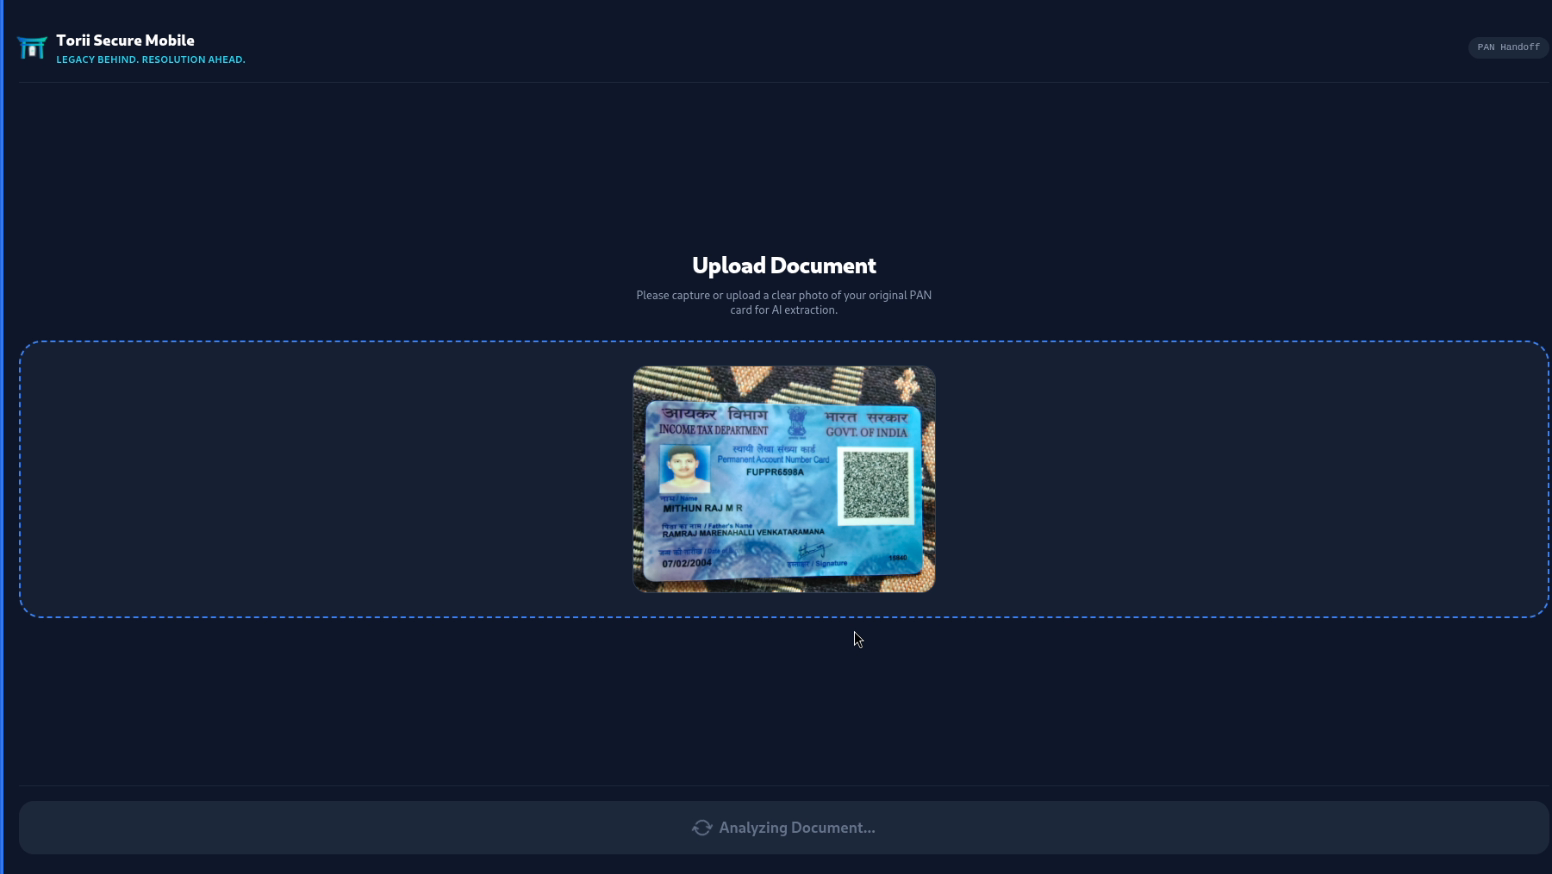
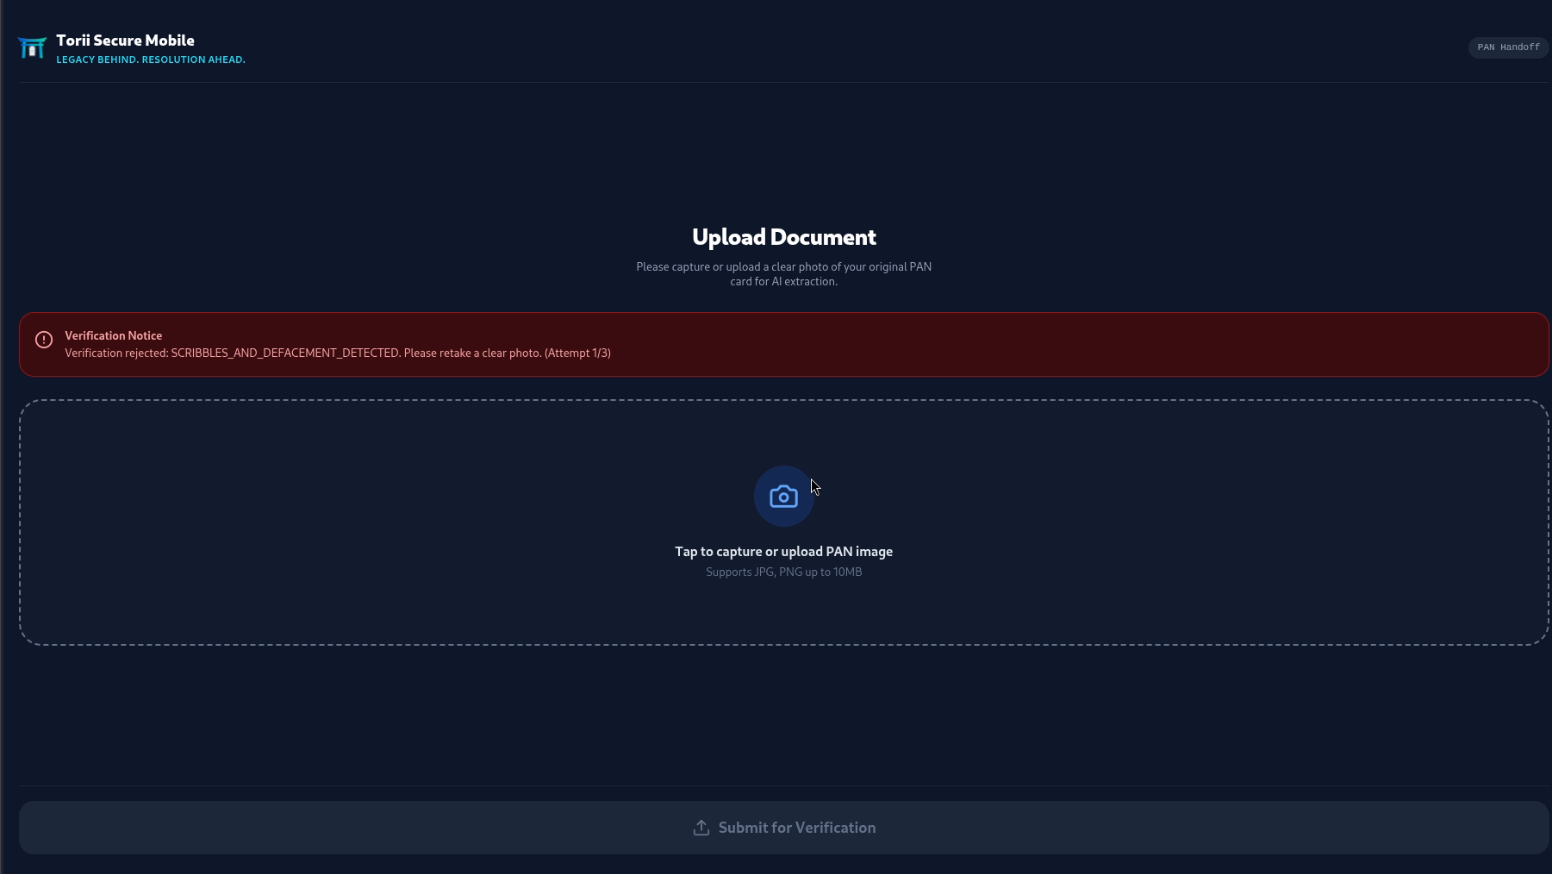
docs: showcase authentic error states, anti-fraud gates, teller exceptions, and transactional notifications

diff --git a/Readme.md b/Readme.md
@@ -60,44 +60,66 @@ TORII fundamentally alters how retail banking operations function:
 ## Platform Visual Tour
 
 <div align="center">
-  <p><strong>A comprehensive visual walkthrough of TORII's production banking triage, AI swarm orchestration, mobile handoff, and human-in-the-loop authorization pipeline:</strong></p>
+  <p><strong>A comprehensive visual walkthrough of TORII's production banking triage, AI swarm orchestration, anti-fraud quality gates, teller exception workflows, and omnichannel notifications:</strong></p>
 </div>
 
-### 1. Operations Hub & Swarm Telemetry
-| 🏛 Master Operations Hub & Section G Radar | 🤖 Active AI Swarm Telemetry & Copilot Drawer |
+### 1. Architecture Gateway & Master Operations Hub
+| ⛩ Torii Architecture v4.0 Portal | 🏛 Master Operations Command Center |
 | :---: | :---: |
-| <a href="screenshot-Torii/landing_page.png"><img src="screenshot-Torii/landing_page.png" alt="Torii Master Operations Hub" width="100%" /></a> | <a href="screenshot-Torii/landing_copilot_assistant.png"><img src="screenshot-Torii/landing_copilot_assistant.png" alt="AI Swarm Telemetry & Copilot Drawer" width="100%" /></a> |
-| **Unified Command Center**: Live CBS core telemetry, multi-workspace routing, and real-time Section G compliance radar tracking branch bottlenecks. | **Interactive AI Copilot**: Public visitor assistant with live AI agent swarm indicators (`AML Watchdog RUN`, `Vision OCR`, `Cross-sell AI`). |
+| <a href="screenshot-Torii/torii_portal_intro.png"><img src="screenshot-Torii/torii_portal_intro.png" alt="Torii Portal Architecture Entry" width="100%" /></a> | <a href="screenshot-Torii/landing_page.png"><img src="screenshot-Torii/landing_page.png" alt="Torii Master Operations Hub" width="100%" /></a> |
+| **Architectural Gateway**: Unified entry point cleanly routing branch customers, tellers, and administrative operators to dedicated workspaces. | **Central Command Hub**: Live CBS core telemetry, multi-workspace routing, and real-time Section G compliance radar tracking branch bottlenecks. |
 
-### 2. Autonomous Kiosk Terminal & Policy Triage
-| 🔐 Kiosk PIN-Pad 2FA Authentication | ⚡ Section G Proactive Triage Radar Alert |
+### 2. Live AI Swarm Telemetry & Regulatory Copilot
+| 🤖 Active AI Swarm Telemetry & Copilot Drawer | 💬 Dual-Track Policy FAQ Assistant |
 | :---: | :---: |
-| <a href="screenshot-Torii/login_page.png"><img src="screenshot-Torii/login_page.png" alt="Self-Service Kiosk Terminal" width="100%" /></a> | <a href="screenshot-Torii/kiosk_proactive_triage_radar.png"><img src="screenshot-Torii/kiosk_proactive_triage_radar.png" alt="Section G Radar Alert" width="100%" /></a> |
-| **Self-Service Kiosk Authentication**: Zero-friction 10-digit PIN pad entry triggering parallel login swarm execution (`Promise.all`). | **Proactive Bottleneck Interception**: Instant diagnosis of Section 139A PAN block with 1-click **Execute Agentic Fix Now** and personalized deposit recommendations. |
+| <a href="screenshot-Torii/landing_copilot_assistant.png"><img src="screenshot-Torii/landing_copilot_assistant.png" alt="AI Swarm Telemetry & Copilot Drawer" width="100%" /></a> | <a href="screenshot-Torii/FAQ_chat_1.png"><img src="screenshot-Torii/FAQ_chat_1.png" alt="Conversational Banking Policy FAQ" width="100%" /></a> |
+| **Interactive Regulatory Copilot**: Visitor assistant answering compliance questions (FDIC, PATRIOT Act, PCI-DSS, GDPR) with live agent status (`AML Watchdog RUN`). | **Autonomous Policy Engine**: Sub-second answers for branch procedures, NEFT/RTGS/IMPS schedules, KYC documentation requirements, and charges. |
 
-### 3. Natural Language Policy FAQ & Advisor Intelligence
-| 💬 Conversational FAQ & Policy Assistant | 🎁 Advisor Agent Pre-Approved Reservation |
+### 3. Autonomous Kiosk Terminal & Section G Triage Radar
+| 🔐 Kiosk Account Lookup & PII Masking | ⚡ Section G Proactive Triage Radar Alert |
 | :---: | :---: |
-| <a href="screenshot-Torii/kiosk_faq_voice_chat.png"><img src="screenshot-Torii/kiosk_faq_voice_chat.png" alt="Kiosk Conversational FAQ" width="100%" /></a> | <a href="screenshot-Torii/advisor_cross_sell_modal.png"><img src="screenshot-Torii/advisor_cross_sell_modal.png" alt="Advisor Agent Reservation" width="100%" /></a> |
-| **Dual-Track Policy Intelligence**: Sub-second natural language answers for RTGS, NEFT, IMPS fees, interest rates, and branch policies. | **Autonomous Value-Add**: Proactive balance tier analysis offering pre-approved fixed deposits with instant RM reservation confirmation. |
+| <a href="screenshot-Torii/kiosk_account_lookup.png"><img src="screenshot-Torii/kiosk_account_lookup.png" alt="Kiosk Account Lookup Keypad" width="100%" /></a> | <a href="screenshot-Torii/kiosk_proactive_triage_radar.png"><img src="screenshot-Torii/kiosk_proactive_triage_radar.png" alt="Section G Radar Alert" width="100%" /></a> |
+| **Zero-Friction Kiosk Auth**: 10-digit account keypad lookup with Watsonx.governance PII masking and automated SMS/Email OTP dispatch. | **Proactive Bottleneck Interception**: Instant CBS ledger diagnosis of Section 139A PAN block with 1-click **Execute Agentic Fix Now** action card. |
 
-### 4. Privacy-Preserving Mobile Continuation & Camera Capture
+### 4. Natural Language Kiosk FAQ & Cross-Sell Advisory
+| 🎙 Kiosk Conversational Voice & FAQ Triage | 🎁 Advisor Agent High-Yield Offer Modal |
+| :---: | :---: |
+| <a href="screenshot-Torii/kiosk_faq_voice_chat.png"><img src="screenshot-Torii/kiosk_faq_voice_chat.png" alt="Kiosk Voice & FAQ Assistant" width="100%" /></a> | <a href="screenshot-Torii/advisor_cross_sell_modal.png"><img src="screenshot-Torii/advisor_cross_sell_modal.png" alt="Advisor Agent Pre-Approved Reservation" width="100%" /></a> |
+| **Multimodal Kiosk Assistant**: Real-time voice and text banking inquiries with pre-configured quick action pills for instant lobby assistance. | **Autonomous Value-Add**: Proactive balance tier analysis offering pre-approved fixed deposits (4.50% p.a.) with 1-click Relationship Manager reservation. |
+
+### 5. Privacy-Preserving Mobile Continuation & Camera Capture
 | 📲 Encrypted QR Session Handoff | 📸 Torii Secure Mobile Camera Viewfinder |
 | :---: | :---: |
 | <a href="screenshot-Torii/QR_scan_Pan_page.png"><img src="screenshot-Torii/QR_scan_Pan_page.png" alt="Encrypted Mobile QR Handoff" width="100%" /></a> | <a href="screenshot-Torii/mobile_camera_pan_upload.png"><img src="screenshot-Torii/mobile_camera_pan_upload.png" alt="Mobile Camera Capture" width="100%" /></a> |
-| **Zero-Password Smartphone Handoff**: 10-minute ephemeral Redis cryptographic token delegating sensitive KYC capture to personal devices. | **Native Mobile Capture**: Secure browser-based camera capture with real-time AI extraction and streaming progress. |
+| **Zero-Password Smartphone Handoff**: 10-minute ephemeral Redis cryptographic token delegating sensitive KYC capture from kiosk to personal smartphone. | **Native Mobile Capture**: Secure browser-based camera capture viewfinder uploading specimen documents for real-time parallel AI extraction. |
 
-### 5. Multi-Agent Anti-Fraud Inspection & Live Dispatch
-| 🛡 Vision OCR Scribble / Tamper Rejection | ⏱ Real-Time Teller Dispatch Poller |
+### 6. Document Quality Gating & Anti-Fraud Tamper Detection
+| 🚫 Defaced Specimen Fraud Simulation | 🛡 Vision OCR Scribble / Tamper Rejection Gate |
 | :---: | :---: |
-| <a href="screenshot-Torii/mobile_anti_fraud_rejection.png"><img src="screenshot-Torii/mobile_anti_fraud_rejection.png" alt="Vision OCR Defacement Rejection" width="100%" /></a> | <a href="screenshot-Torii/mobile_status_tracker_dispatch.png"><img src="screenshot-Torii/mobile_status_tracker_dispatch.png" alt="Real-Time Status Tracker" width="100%" /></a> |
-| **Strict Anti-Fraud Quality Gate**: Automatic rejection of scribbles, obstructions, and defacement (`SCRIBBLES_AND_DEFACEMENT_DETECTED`) with instant customer retry guidance. | **Live Continuation Poller**: Real-time status tracker keeping the customer informed while pre-analyzed files route to the branch teller. |
+| <a href="screenshot-Torii/mobile_defaced_pan_sample.png"><img src="screenshot-Torii/mobile_defaced_pan_sample.png" alt="Defaced Specimen Document Upload" width="100%" /></a> | <a href="screenshot-Torii/mobile_anti_fraud_rejection.png"><img src="screenshot-Torii/mobile_anti_fraud_rejection.png" alt="Vision OCR Defacement Rejection Error" width="100%" /></a> |
+| **Tamper Simulation**: A customer attempts to upload a defaced or scribbled document to test automated compliance checks. | **Instant Quality Gate Rejection**: AI Vision model intercepts defacement (`SCRIBBLES_AND_DEFACEMENT_DETECTED`), halting processing and requesting a pristine retake. |
 
-### 6. Human-in-the-Loop (HITL) Authorization & Customer Notification
-| 👨💼 HITL Teller Review Workstation | ✉ Multi-Channel Email Notification Dispatch |
+| ⏱ Security Token Expiration Guardrail | 📡 Real-Time Teller Dispatch Tracker |
 | :---: | :---: |
-| <a href="screenshot-Torii/teller_hitl_verification.png"><img src="screenshot-Torii/teller_hitl_verification.png" alt="HITL Teller Workstation" width="100%" /></a> | <a href="screenshot-Torii/email_notifications_flow.png"><img src="screenshot-Torii/email_notifications_flow.png" alt="Email Notification Dispatch" width="100%" /></a> |
-| **5-Second Teller Verification**: Pre-extracted Gemini OCR metrics (Clarity 99%, Name Match 100%, Tampering PASSED, Specimen GENUINE) with 1-Click Approve. | **Instant Customer Delivery**: Automated Brevo/SMTP transactional email updates for 2FA OTPs, approval confirmations, and teller notices. |
+| <a href="screenshot-Torii/mobile_session_expired_error.png"><img src="screenshot-Torii/mobile_session_expired_error.png" alt="Session Expired Error Guardrail" width="100%" /></a> | <a href="screenshot-Torii/mobile_status_tracker_dispatch.png"><img src="screenshot-Torii/mobile_status_tracker_dispatch.png" alt="Real-Time Status Tracker" width="100%" /></a> |
+| **Cryptographic Expiration Notice**: Enforces bank security by rejecting expired or invalid QR tokens (`Your upload session has expired or is invalid`). | **Live Dispatch Poller**: Streams status updates to the customer's phone while pre-verified document metadata routes to the branch teller. |
+
+### 7. Human-in-the-Loop (HITL) Authorization & Exception Handling
+| 👨💼 HITL Teller Review Workstation | ⚠ Teller Manual Rejection & Exception Modal |
+| :---: | :---: |
+| <a href="screenshot-Torii/teller_hitl_verification.png"><img src="screenshot-Torii/teller_hitl_verification.png" alt="HITL Teller Workstation" width="100%" /></a> | <a href="screenshot-Torii/teller_rejection_reason_modal.png"><img src="screenshot-Torii/teller_rejection_reason_modal.png" alt="Teller Rejection Reason Dropdown Modal" width="100%" /></a> |
+| **5-Second Verification**: Pre-extracted Gemini Vision OCR metrics (98% Clarity, 100% Name Match, Tampering PASSED, Specimen GENUINE) for 1-click approval. | **Exception Handling Controls**: Tellers can manually reject invalid tickets, selecting specific reasons (`Blurry or Unreadable Image`, `Invalid Document`) with automated customer notification. |
+
+| 📋 Teller Audit History & Rejected State | 🔑 Teller Staff Workspace Authentication |
+| :---: | :---: |
+| <a href="screenshot-Torii/teller_ticket_rejected_audit.png"><img src="screenshot-Torii/teller_ticket_rejected_audit.png" alt="Teller Audit History Rejected Ticket" width="100%" /></a> | <a href="screenshot-Torii/login_page.png"><img src="screenshot-Torii/login_page.png" alt="Teller Staff Login Portal" width="100%" /></a> |
+| **Immutable Audit Queue**: Real-time audit log tracking approval and rejection decisions with distinct color-coded badges (`APPROVED` vs `REJECTED`). | **Role-Based Access Control**: Secure staff authentication portal restricting teller workstation actions to authorized branch personnel. |
+
+### 8. Omnichannel Customer Delivery & Transactional Alerts
+| ✉ Automated Rejection Notice (`NAME_MISMATCH`) | ✉ Automated Approval & Hold Release Confirmation |
+| :---: | :---: |
+| <a href="screenshot-Torii/email_rejection_notice.png"><img src="screenshot-Torii/email_rejection_notice.png" alt="Email Rejection Alert" width="100%" /></a> | <a href="screenshot-Torii/email_notifications_flow.png"><img src="screenshot-Torii/email_notifications_flow.png" alt="Email Approval Confirmation" width="100%" /></a> |
+| **Automated Exception Delivery**: Instant Brevo/SMTP transactional email explaining the specific failure reason (`NAME_MISMATCH`) and branch instructions. | **Instant Resolution Confirmation**: Immediate transactional email notifying the customer that their document was approved and the compliance hold is lifted. |
 
 ---
 
@@ -152,8 +174,8 @@ Arjun steps up to the branch kiosk terminal and enters his 10-digit account numb
 - **Leg 3 — Advisor Cross-Sell Agent**: Evaluates Arjun's account balance tier to generate personalized, high-value financial offer cards.
 
 <p align="center">
-  <a href="screenshot-Torii/login_page.png"><img src="screenshot-Torii/login_page.png" alt="Kiosk Terminal PIN-pad Authentication" width="85%" /></a>
-  <br><em>Figure 1: Kiosk Terminal Authentication — Arjun enters his 10-digit account number to initiate 2FA OTP verification and trigger the parallel login swarm.</em>
+  <a href="screenshot-Torii/kiosk_account_lookup.png"><img src="screenshot-Torii/kiosk_account_lookup.png" alt="Kiosk Account Lookup Keypad" width="85%" /></a>
+  <br><em>Figure 1: Kiosk Terminal Authentication — Arjun enters his 10-digit account number on the zero-friction keypad with Watsonx.governance PII masking to initiate automated compliance diagnosis.</em>
 </p>
 
 ### Step 2: Proactive Dialogue & Bottom Quick-Fix Drawer
@@ -174,36 +196,39 @@ Arjun clicks the quick-fix card. The kiosk calls `POST /api/auth/qr/generate`, i
   <br><em>Figure 3: Encrypted Mobile Continuation — Arjun scans the 10-minute ephemeral QR code with his smartphone to securely upload his PAN card.</em>
 </p>
 
-### Step 4: Intelligent Quality-Gated Document Upload
+### Step 4: Intelligent Quality-Gated Document Upload & Fraud Interception
 Arjun snaps a photo of his PAN card on his phone and submits it (`POST /api/mobile/upload`).
 Before any data reaches the teller, TORII's Vision OCR agent executes a strict anti-fraud inspection:
-- **Quality Gating**: If image clarity is `< 0.80`, or if finger obstructions, scribbles, or digital screen capture Moiré patterns are detected, the system rejects the submission (`400 RETAKE_IMAGE`) and prompts Arjun to retake a clear photo.
+- **Defacement & Tampering Gate**: If image clarity is `< 0.80`, or if finger obstructions, scribbles, or digital screen capture Moiré patterns are detected, the system rejects the submission (`400 RETAKE_IMAGE`) and prompts Arjun to retake a clear photo.
+- **Session Security Gate**: Expired or forged QR tokens are blocked at the perimeter (`Your upload session has expired or is invalid`).
 - **Data Protection**: Aadhaar numbers are automatically masked (`XXXX-XXXX-1234`), and PAN OCR confusions (e.g. `0` vs `O`) are corrected via `fixPanHeuristics()`.
 
 <p align="center">
-  <a href="screenshot-Torii/mobile_anti_fraud_rejection.png"><img src="screenshot-Torii/mobile_anti_fraud_rejection.png" alt="Vision OCR Anti-Fraud Quality Gate Rejection" width="48%" /></a>
-  <a href="screenshot-Torii/mobile_camera_pan_upload.png"><img src="screenshot-Torii/mobile_camera_pan_upload.png" alt="Torii Secure Mobile Camera Capture" width="48%" /></a>
-  <br><em>Figure 4: Anti-Fraud Gating & Mobile Capture — Left: Vision OCR detects defacement and prompts immediate retry. Right: Clean PAN card photo analyzed in under 1.8 seconds.</em>
+  <a href="screenshot-Torii/mobile_defaced_pan_sample.png"><img src="screenshot-Torii/mobile_defaced_pan_sample.png" alt="Defaced PAN Card Sample Submission" width="32%" /></a>
+  <a href="screenshot-Torii/mobile_anti_fraud_rejection.png"><img src="screenshot-Torii/mobile_anti_fraud_rejection.png" alt="Vision OCR Defacement Rejection Error" width="32%" /></a>
+  <a href="screenshot-Torii/mobile_camera_pan_upload.png"><img src="screenshot-Torii/mobile_camera_pan_upload.png" alt="Clean PAN Card Photo Analyzed" width="32%" /></a>
+  <br><em>Figure 4: Anti-Fraud Gating & Document Extraction — Left: Simulated fraudulent submission with defaced specimen. Middle: Vision OCR quality gate blocks upload with specific error message (`SCRIBBLES_AND_DEFACEMENT_DETECTED`). Right: Retaken clean document photo analyzed in under 1.8 seconds.</em>
 </p>
 
-### Step 5: HITL Teller Verification & Auto-Learning Feedback Loop
+### Step 5: HITL Teller Verification & Exception Handling Loop
 Once a clean photo is accepted, a review ticket enters the Teller Workspace queue. Teller Sarah sees the pre-extracted document fields, a 91% Levenshtein name match score, and green anti-fraud indicators.
-- Teller Sarah clicks **"Approve"** (`POST /api/teller/action`).
-- The backend mutates the CBS record (`accounts.pan_linked = true`), lifts the transaction hold, dispatches an email notification, and records the outcome in `agent_performance_log`.
-- **Continuous Learning**: If a teller overrides an AI recommendation (`teller_override = true`), TORII's feedback loop records the discrepancy to automatically refine model thresholds over time.
+- **1-Click Approval**: Teller Sarah clicks **"Approve"** (`POST /api/teller/action`). The backend mutates the CBS record (`accounts.pan_linked = true`), lifts the transaction hold, dispatches an approval email, and records the outcome.
+- **Exception Rejection & Categorization**: If the document fails manual inspection, the teller selects a rejection reason (`Blurry or Unreadable Image`, `Name Mismatch`) and clicks **"Confirm Rejection & Notify Customer"**, triggering automated customer guidance and updating the immutable audit queue.
 
 <p align="center">
-  <a href="screenshot-Torii/teller_hitl_verification.png"><img src="screenshot-Torii/teller_hitl_verification.png" alt="HITL Teller Review Workstation" width="85%" /></a>
-  <br><em>Figure 5: HITL Teller Workstation — Tellers review pre-extracted Gemini OCR fields (99% clarity, 100% name match, genuine specimen) and authorize with a single click.</em>
+  <a href="screenshot-Torii/teller_hitl_verification.png"><img src="screenshot-Torii/teller_hitl_verification.png" alt="HITL Teller Review Workstation" width="48%" /></a>
+  <a href="screenshot-Torii/teller_rejection_reason_modal.png"><img src="screenshot-Torii/teller_rejection_reason_modal.png" alt="Teller Rejection Reason Dropdown Modal" width="48%" /></a>
+  <br><em>Figure 5: HITL Authorization & Exception Workflows — Left: Tellers review pre-extracted Gemini OCR fields (98% clarity, 100% name match, genuine specimen) for 1-click approval. Right: Teller exception controls for categorizing rejection reasons and notifying the customer in real time.</em>
 </p>
 
-### Step 6: Instant Resolution
-Arjun's mobile phone displays a success confirmation along with personalized offer cards generated by the Advisor agent. Total elapsed time: **under 60 seconds**.
+### Step 6: Instant Omnichannel Customer Resolution
+Arjun's mobile phone displays real-time confirmation, while transactional emails are dispatched via Brevo/SMTP covering both approval and exception pathways:
 
 <p align="center">
-  <a href="screenshot-Torii/advisor_cross_sell_modal.png"><img src="screenshot-Torii/advisor_cross_sell_modal.png" alt="Advisor Agent Personalized Reservation" width="48%" /></a>
-  <a href="screenshot-Torii/email_notifications_flow.png"><img src="screenshot-Torii/email_notifications_flow.png" alt="Live Transactional Email Confirmation" width="48%" /></a>
-  <br><em>Figure 6: Instant Customer Resolution — Left: Advisor agent delivers pre-approved high-yield deposit offer. Right: Live email delivery confirms account unblock and transfer completion.</em>
+  <a href="screenshot-Torii/advisor_cross_sell_modal.png"><img src="screenshot-Torii/advisor_cross_sell_modal.png" alt="Advisor Agent Personalized Reservation" width="32%" /></a>
+  <a href="screenshot-Torii/email_rejection_notice.png"><img src="screenshot-Torii/email_rejection_notice.png" alt="Transactional Email Rejection Notice" width="32%" /></a>
+  <a href="screenshot-Torii/email_notifications_flow.png"><img src="screenshot-Torii/email_notifications_flow.png" alt="Transactional Email Approval Confirmation" width="32%" /></a>
+  <br><em>Figure 6: Omnichannel Delivery & Resolution — Left: Advisor agent delivers pre-approved high-yield deposit offer. Middle: Automated email alert sent if verification fails (`Reason: NAME_MISMATCH`). Right: Automated email confirmation when approved and transaction hold is released.</em>
 </p>
 
 ---
